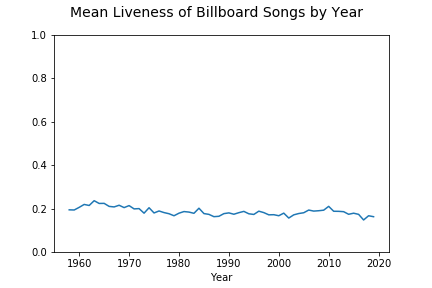
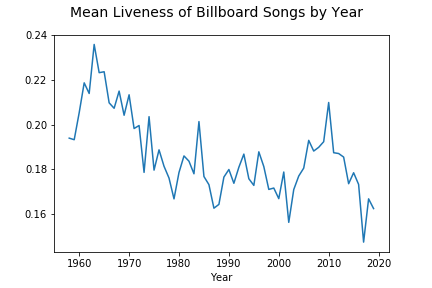
graph scale

diff --git a/spotify-billboard-analysis.py b/spotify-billboard-analysis.py
@@ -117,8 +117,6 @@ numericalMetrics = numericalMetrics.rename(columns={'spotify_track_duration_ms':
 for metric in numericalMetrics.columns.tolist()[1:]:
     fig, ax = plt.subplots()
     ax.plot(numericalMetrics['Year'], numericalMetrics[metric])
-    if metric not in ['trackduration', 'loudness', 'tempo']:
-        ax.set_ylim((0, 1))
     ax.set_xlabel("Year")
     fig.suptitle("Mean {} of Billboard Songs by Year".format(metric.capitalize()), fontsize=14)
     fig.savefig("images/{}.png".format(metric))
